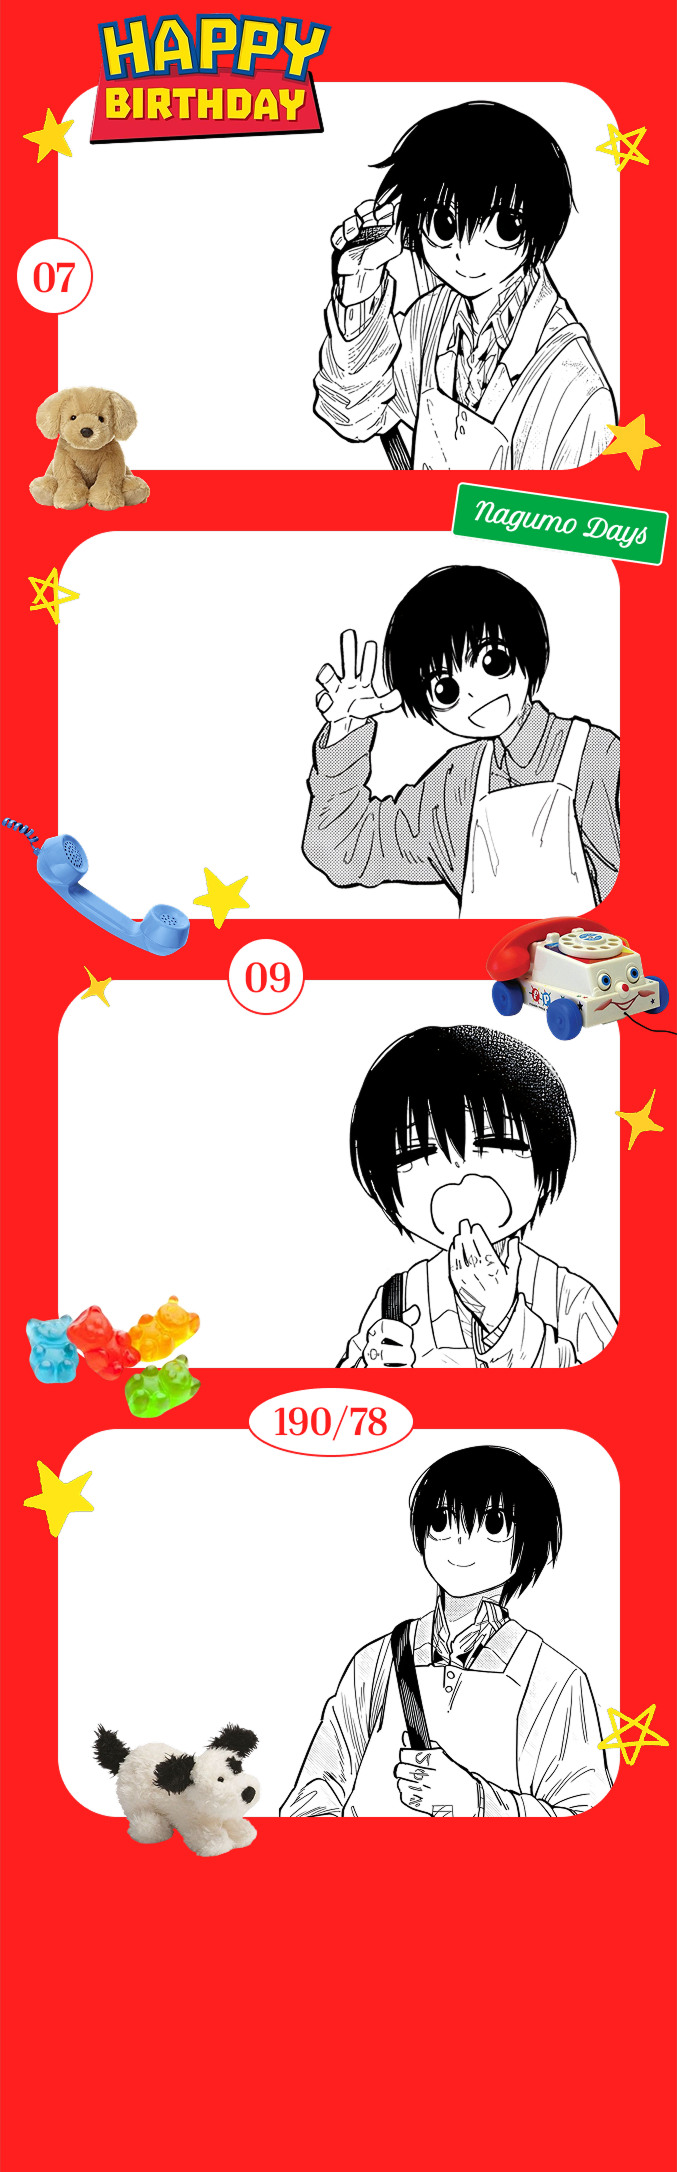
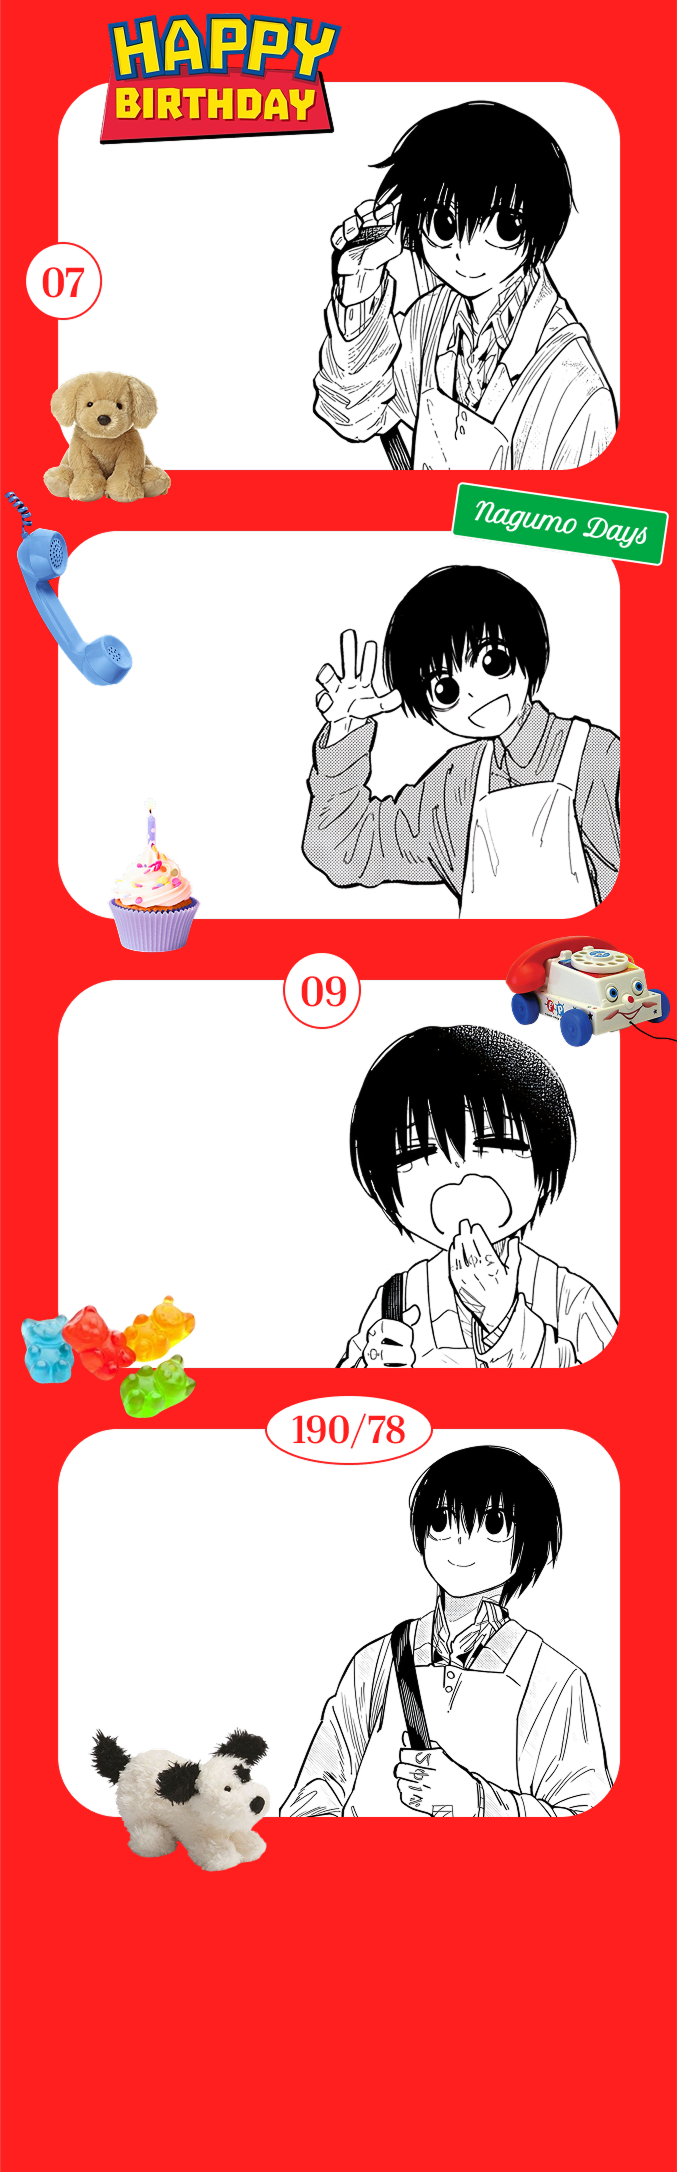
holydays 프레임 교체, order버전 하단 텍스트 색상 변경

diff --git a/src/pages/photoBooth/SaveEditSnapshot/SaveEditSnapshot.module.scss b/src/pages/photoBooth/SaveEditSnapshot/SaveEditSnapshot.module.scss
@@ -39,6 +39,11 @@
     justify-content: center;
     white-space: pre-line;
     text-align: center;
+    &.orderText {
+      span {
+        color: #d20000 !important;
+      }
+    }
   }
   .textAreaWrap {
     div {
@@ -158,10 +163,6 @@
         @include font-style($font-hand, 36px, 400, #fff);
         line-height: 42px;
       }
-      &.blueText {
-        padding-top: 20px;
-        padding-bottom: 40px;
-      }
     }
     .textAreaWrap {
       div {
@@ -262,10 +263,6 @@
       @include font-style($font-hand, 41px, 400, #fff);
       line-height: 46px;
       padding: 33px 29px 30px;
-      &.blueText {
-        padding-top: 35px;
-        padding-bottom: 49px;
-      }
     }
     .buttonContainer {
       gap: 12px;

diff --git a/src/pages/photoBooth/SaveEditSnapshot/SaveEditSnapshot.jsx b/src/pages/photoBooth/SaveEditSnapshot/SaveEditSnapshot.jsx
@@ -128,7 +128,12 @@ const SaveEditSnapshot = () => {
             ))}
           </div>
           {type !== "killerExhibition" && type !== "ticket" && (
-            <div className={classNames(styles.congratulationText)}>
+            <div
+              className={classNames(
+                styles.congratulationText,
+                type === "order" && styles.orderText
+              )}
+            >
               {congratulationText.split("\n").map((line, idx) => (
                 <span key={idx}>
                   {line}

diff --git a/src/components/home/notRobot/NotRobot.jsx b/src/components/home/notRobot/NotRobot.jsx
@@ -27,7 +27,7 @@ const NotRobot = ({ handleEnter, closePop }) => {
   const itemCount = 9;
 
   const [checks, setChecks] = useState(
-    Array.from({ length: itemCount }, (_, i) => false)
+    Array.from({ length: itemCount }, () => false)
   );
 
   const handleChange = (index) => (e) => {
